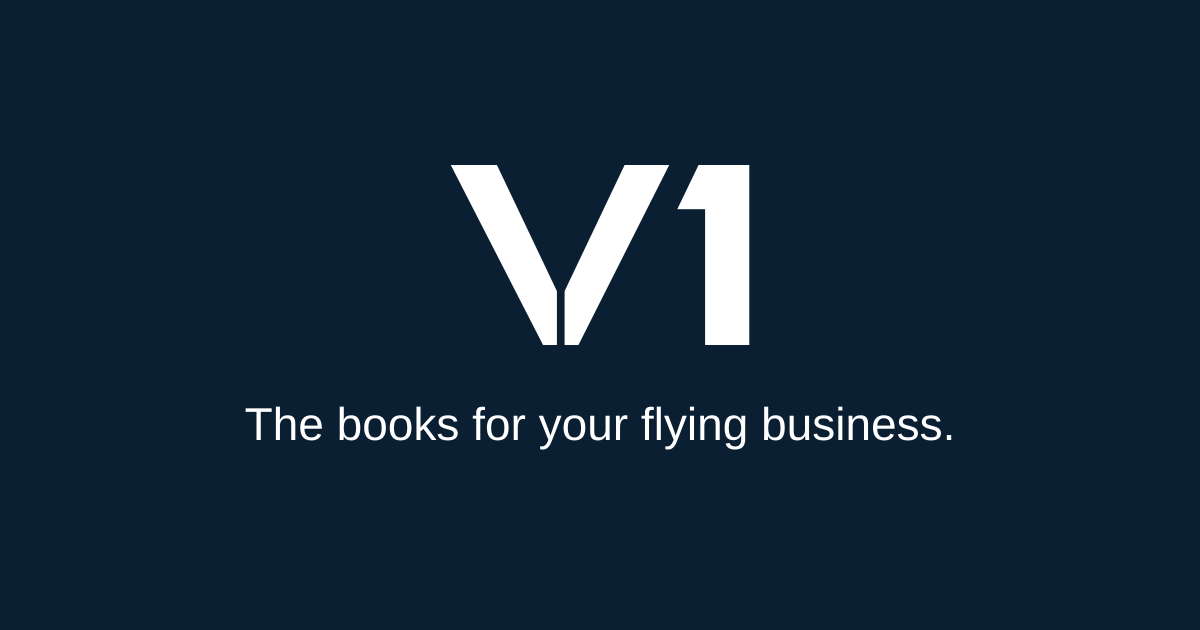
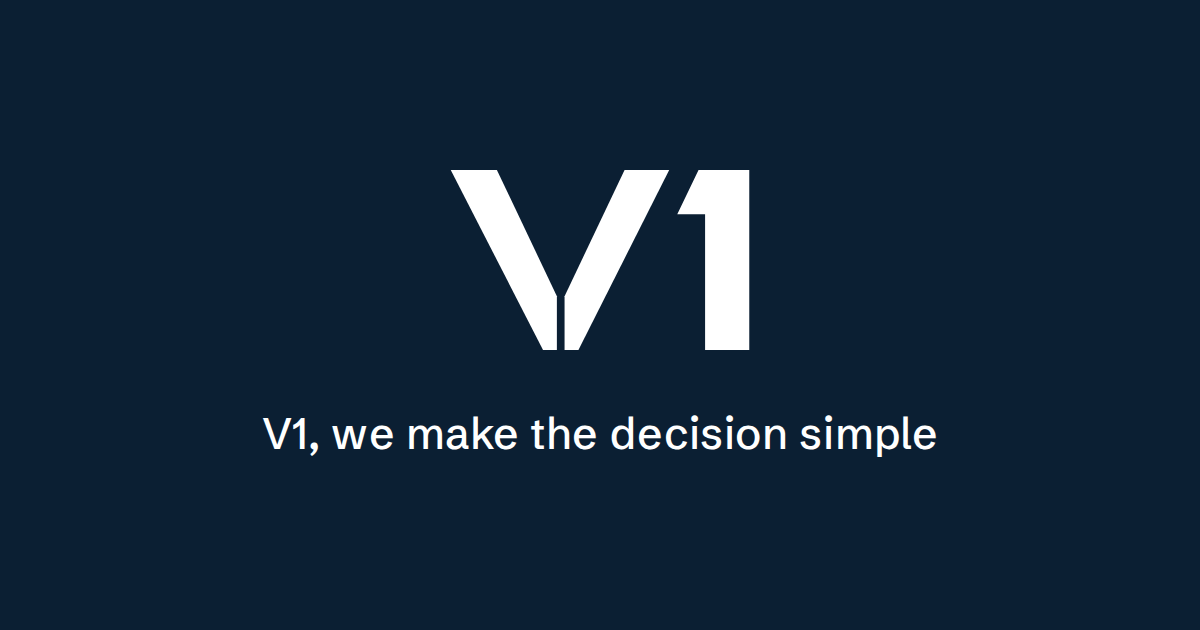
Brand: tagline to "V1, we make the decision simple", OG card regenerated
Owner's direction, restated after a parallel session's lib/brand.ts
rewrite reverted the first change. BRAND.tagline is the single source,
so the marketing footer, the auth brand panel and column close, the
homepage title metadata and the OG alt all update from the one constant
— a repo-wide search confirms no hardcoded copy of the old line exists
outside it.

public/brand/og-image.png carried the OLD tagline baked into its
artwork (it is rasterized, not rendered), so every pasted link would
have shown the old line in the image above the new line in the
description. Regenerated at 1200x630 with the same composition: the
white mark on the brand navy, the new line beneath it in the vendored
Schibsted face.

Checked: typecheck, tokens:verify, account-lifecycle:verify and the
unit suite pass.

Claude-Session: https://claude.ai/code/session_012zRrznBVE4gGbiWQ6fF66Y

diff --git a/lib/brand.ts b/lib/brand.ts
@@ -29,7 +29,7 @@ export const BRAND = {
   wordmark: "V1",
   lockup: "V1: powered by AMG Aviation",
   attribution: "powered by AMG Aviation",
-  tagline: "The books for your flying business.",
+  tagline: "V1, we make the decision simple",
   supportEmail: "v1-support@amgaviationgroup.com",
 } as const;
 
